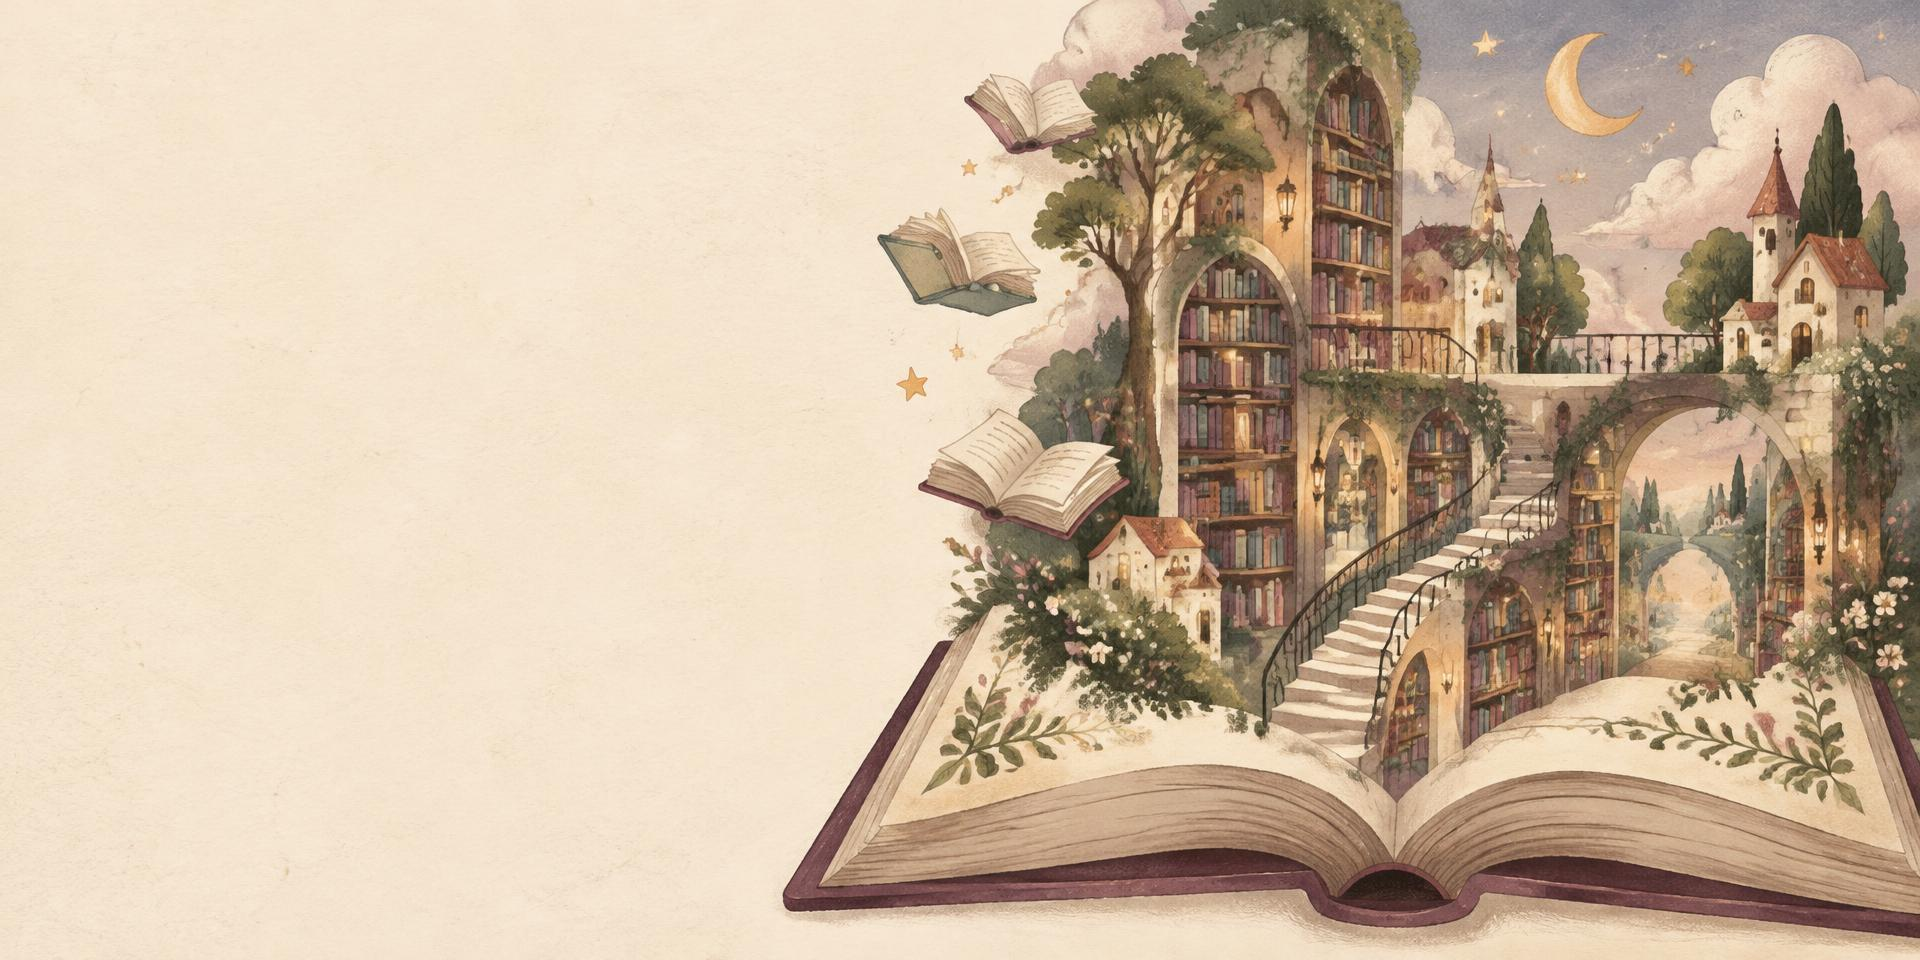
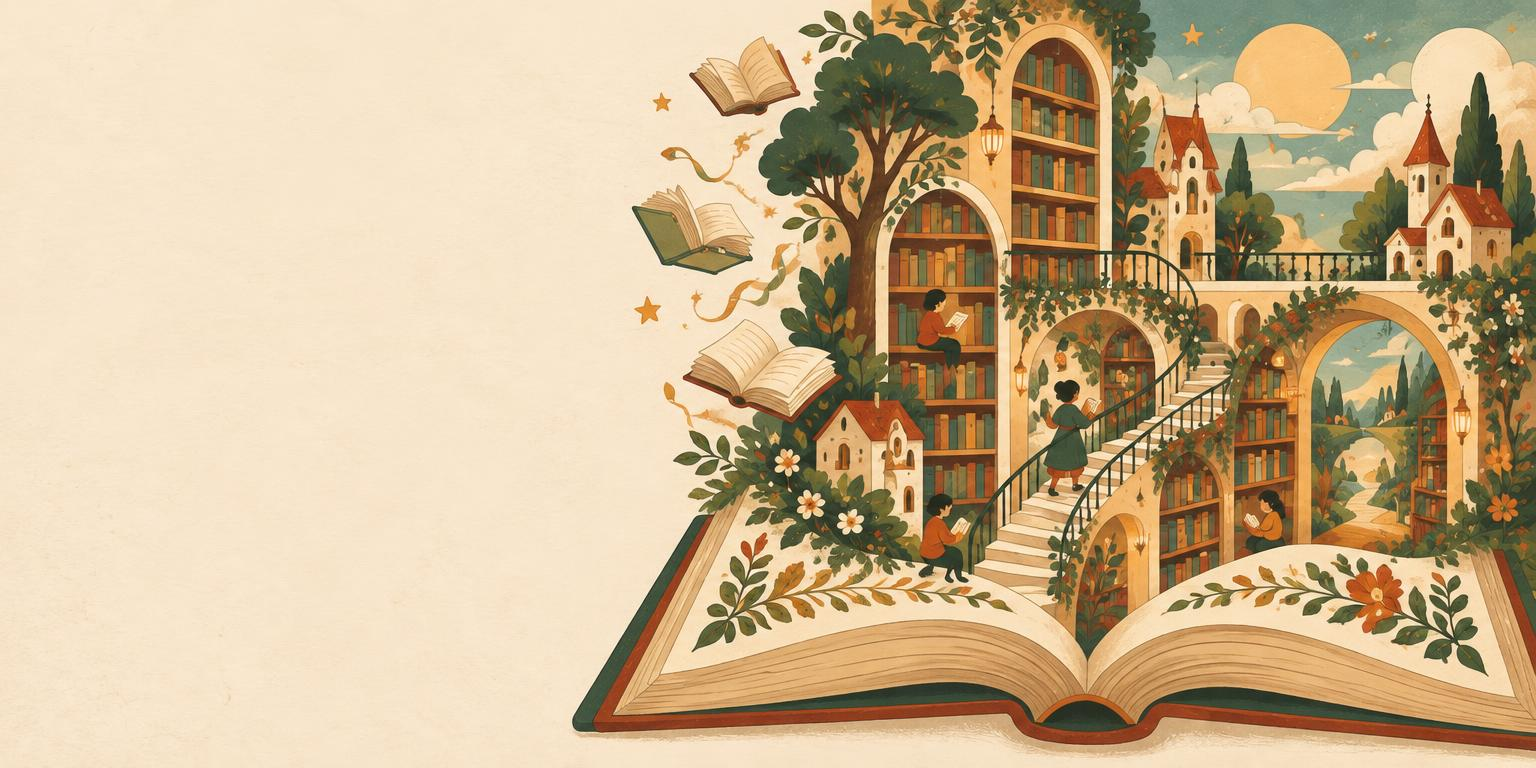
Refine library and journal illustrations to approved vintage hand-drawn style

diff --git a/src/routes/index.tsx b/src/routes/index.tsx
@@ -31,7 +31,7 @@ function Library() {
 
   return (
     <div className="mx-auto max-w-6xl px-6">
-      <section className="relative py-12 md:py-20">
+      <section className="relative overflow-clip py-12 md:py-20">
         <img src={libraryHero} alt="" aria-hidden="true" width={1920} height={960} fetchPriority="high"
           className="pointer-events-none absolute inset-y-0 right-[-18%] hidden h-full w-auto max-w-none object-contain opacity-95 md:block [mask-image:linear-gradient(to_right,transparent,black_30%)]" />
         <img src={libraryHero} alt="" aria-hidden="true" width={1920} height={960}

diff --git a/roadmap.md b/roadmap.md
@@ -1,0 +1,5 @@
+# Illustration direction
+
+- [x] Rework the library illustration using the approved vintage 2D reference.
+- [x] Rework both journal covers without changing their stories or settings.
+- [x] Inspect the images and verify their display on desktop and mobile.
